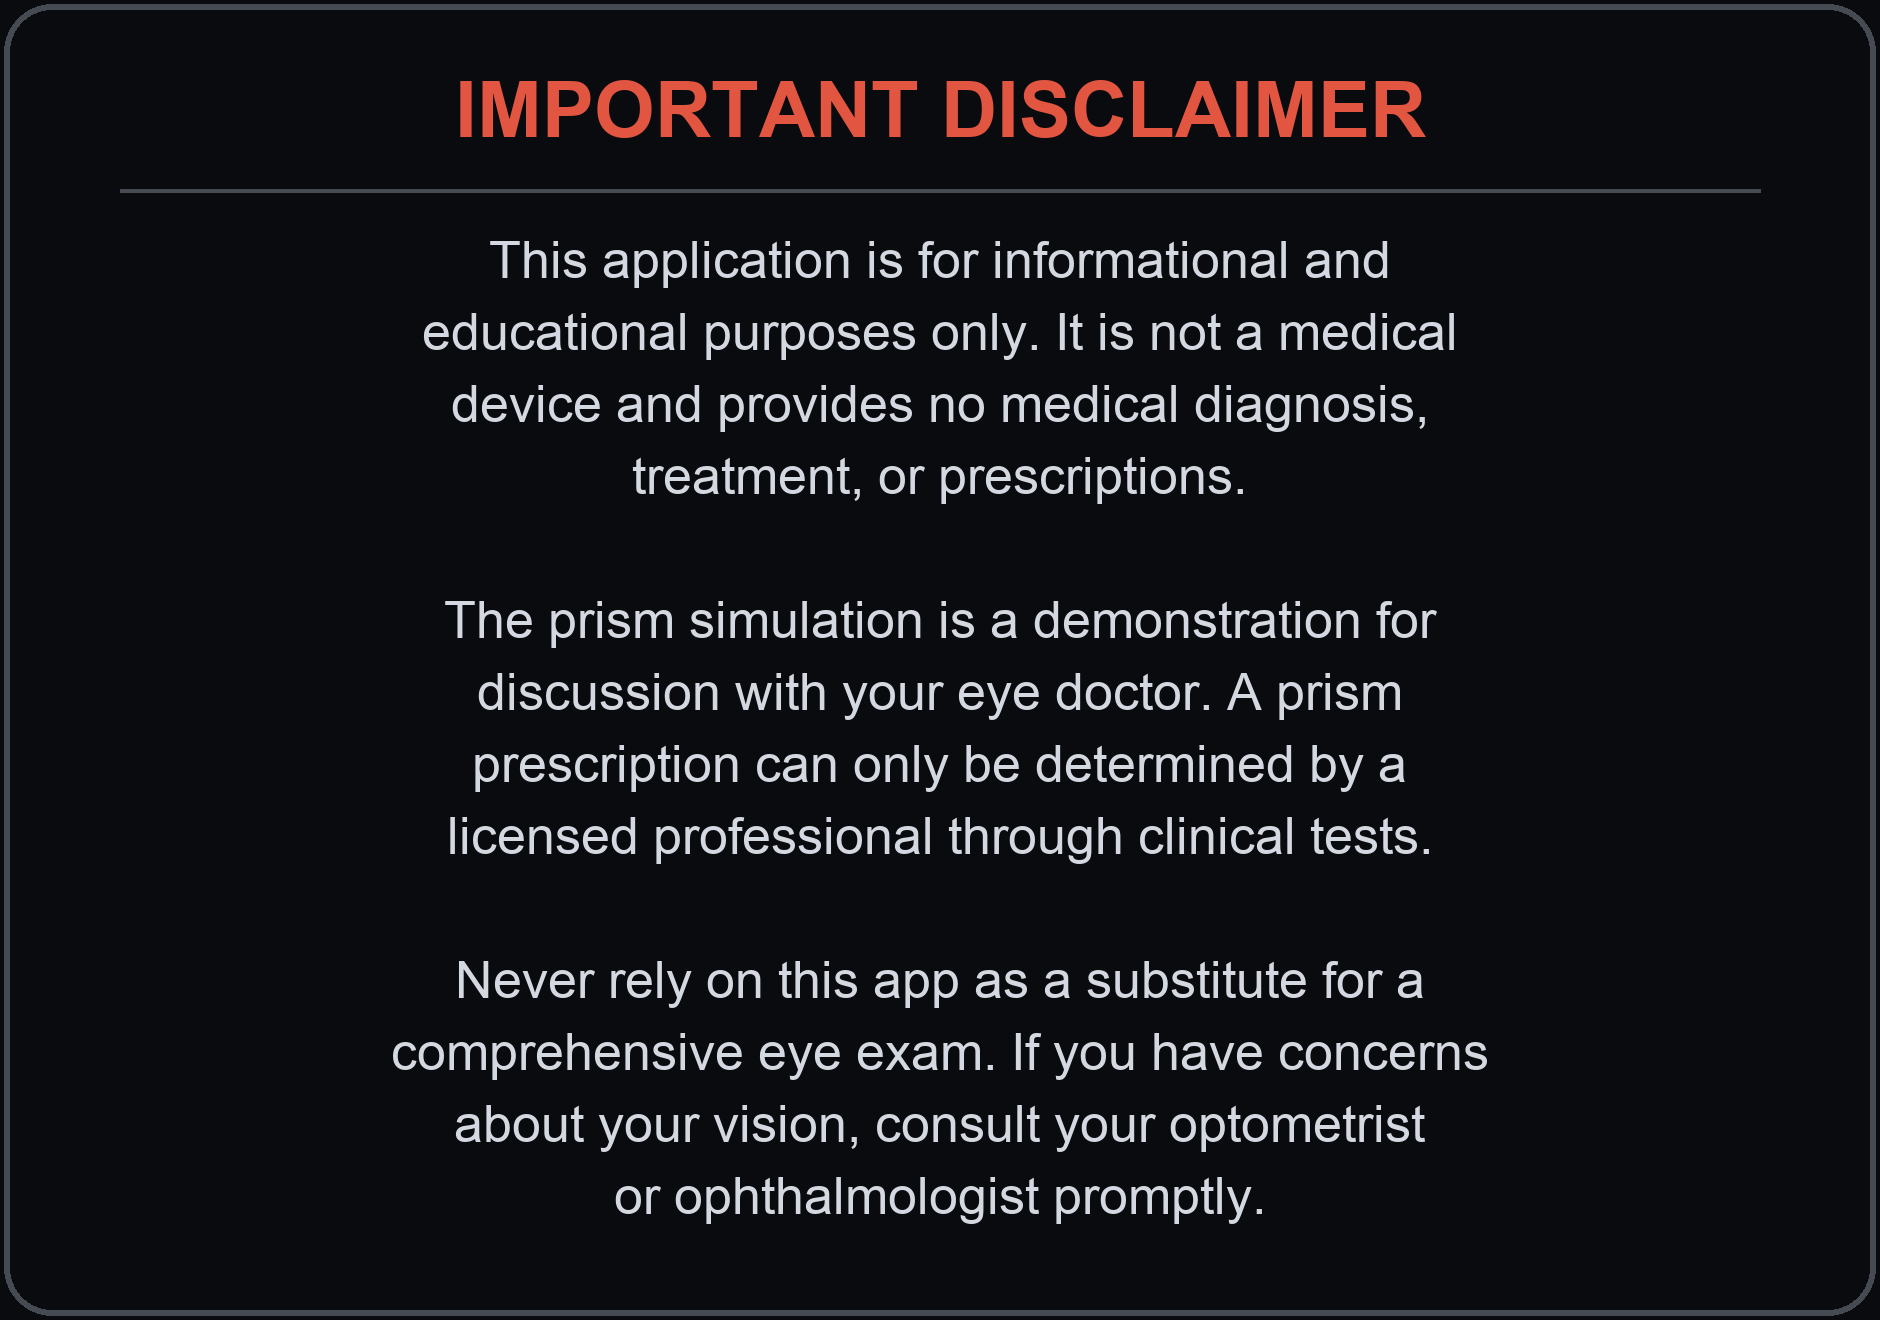
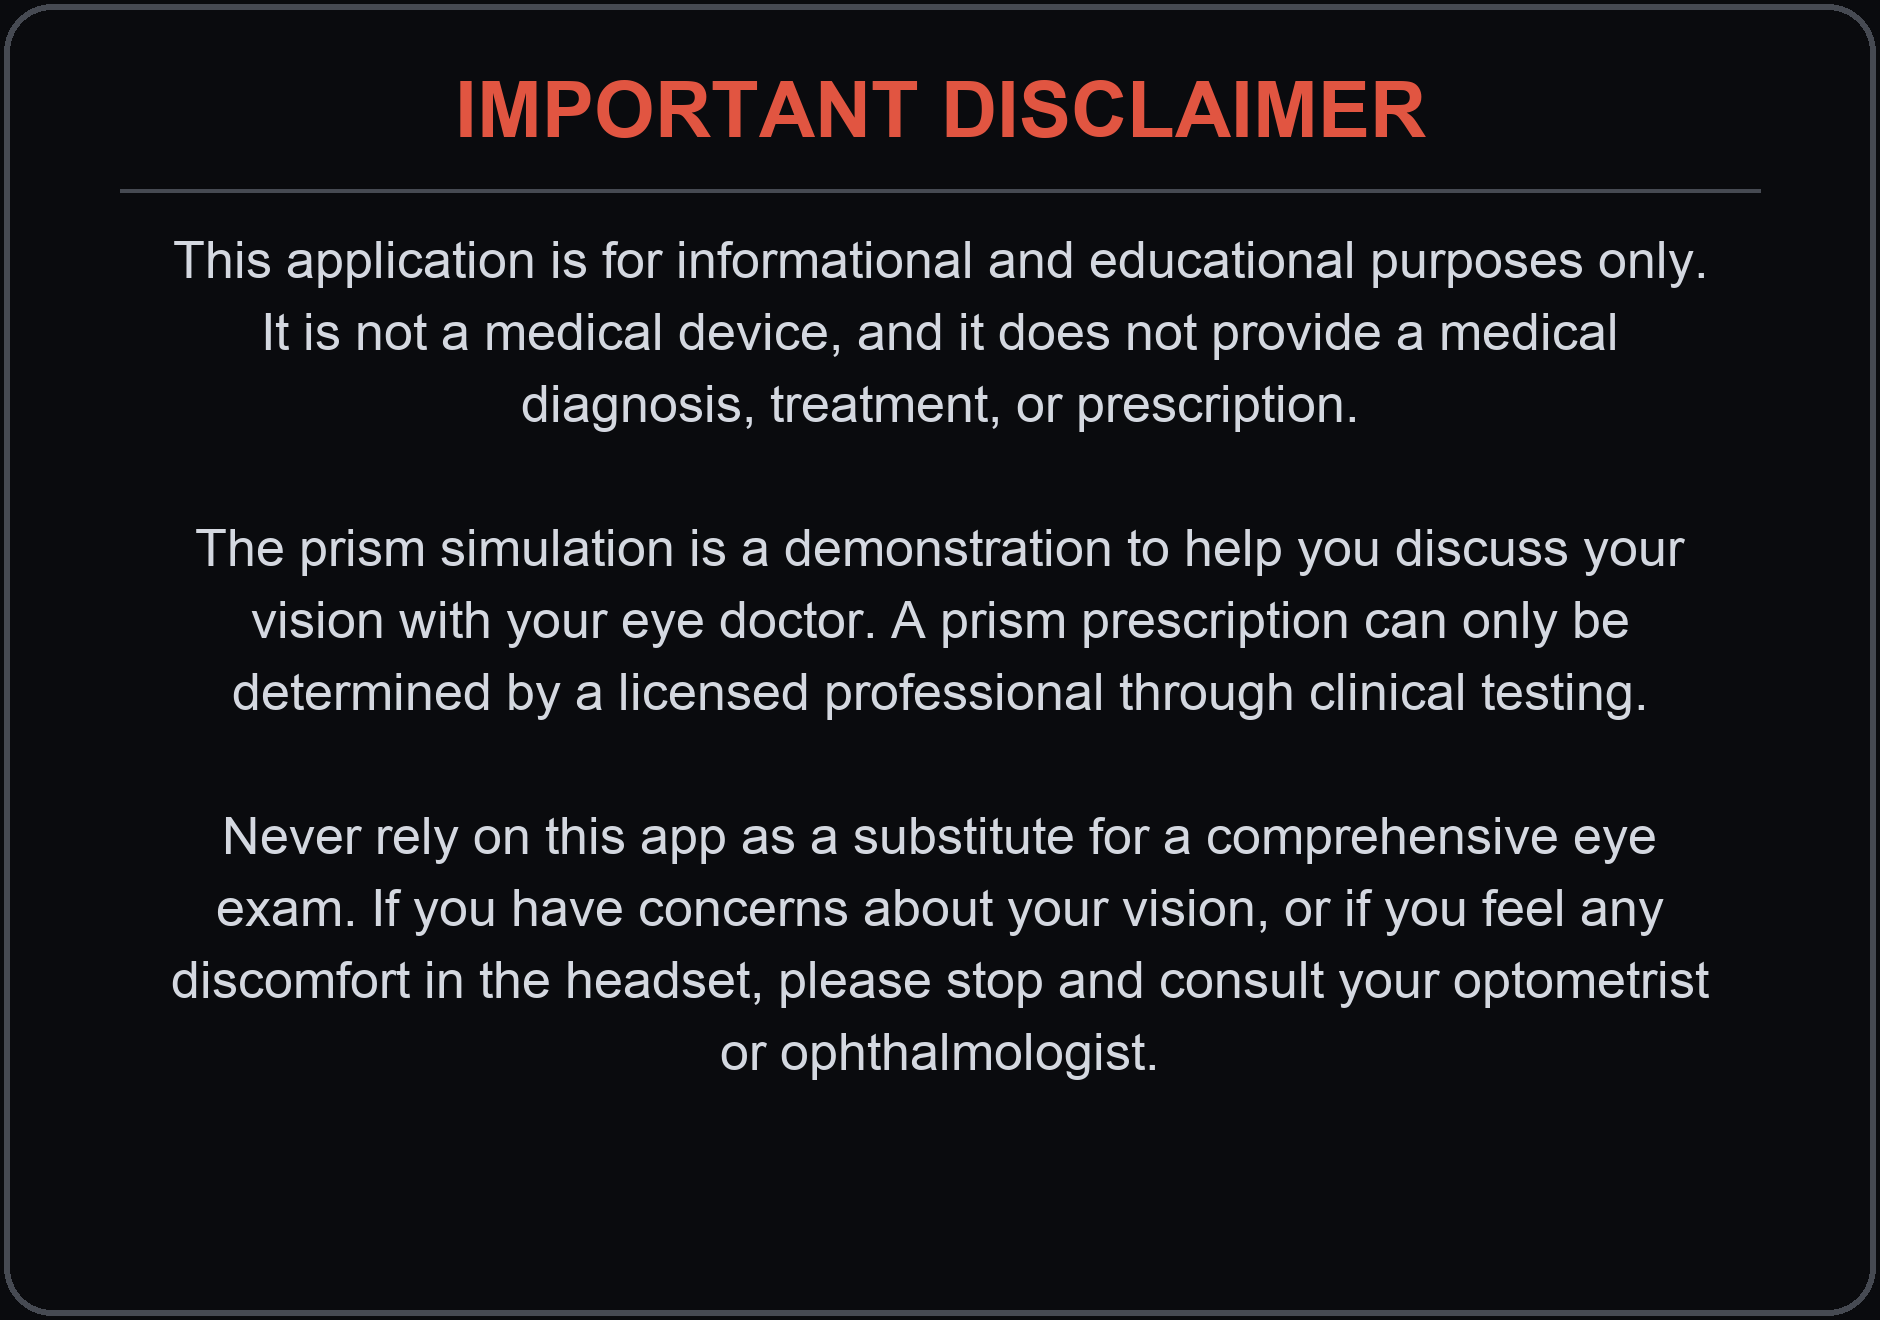
parity: unified disclaimer text + prism starts off (mirrors openxr-skybox@98dad7b)
Sync disclaimer.txt (single source of truth), regenerated audio, and
generate_skybox.py; app.js prism now starts off (PRISM_STEPS[2] == 0).

diff --git a/app.js b/app.js
@@ -215,8 +215,8 @@ let cubeVao, quadVao, beamVao, targetVao, crossVao, panelVao;
 let texBright, texDim, texLabels, texDisclaimer;
 
 let lightsOn = true;
-let prismStep = 0; // start at the full prescription
-let prismScale = PRISM_STEPS[0];
+let prismStep = 2; // start with the prism off (PRISM_STEPS[2] === 0)
+let prismScale = PRISM_STEPS[2];
 let beamsVisible = false;      // gaze beams + chart targets (red OD, green OS)
 let filtersOn = false;         // red/green Worth 4-dot test filters
 

diff --git a/tools/generate_skybox.py b/tools/generate_skybox.py
@@ -295,6 +295,27 @@ def build_prism_labels():
     print("wrote prism_labels.png")
 
 
+# The disclaimer wording is the single source of truth in
+# tools/disclaimer.txt (paragraphs separated by blank lines). Both this
+# panel and the spoken clip (tools/generate_audio.sh) read that file, so
+# the written and spoken disclaimers stay identical.
+DISCLAIMER_TXT = os.path.join(os.path.dirname(__file__), "disclaimer.txt")
+
+
+def _wrap(d, text, fnt, max_w):
+    lines, cur = [], ""
+    for word in text.split():
+        trial = (cur + " " + word).strip()
+        if cur and d.textlength(trial, font=fnt) > max_w:
+            lines.append(cur)
+            cur = word
+        else:
+            cur = trial
+    if cur:
+        lines.append(cur)
+    return lines
+
+
 # Disclaimer panel: shown by the app over the digital acuity display
 # (CHART_BOX) while the welcome/introduction narration plays. 2x the
 # CHART_BOX pixel size (940x660) so text stays crisp up close.
@@ -307,25 +328,18 @@ def build_disclaimer():
     d.text((W // 2, 110), "IMPORTANT DISCLAIMER", font=font(78),
            fill=(225, 85, 65), anchor="mm")
     d.line([120, 190, W - 120, 190], fill=(70, 74, 82), width=4)
-    body = [
-        "This application is for informational and",
-        "educational purposes only. It is not a medical",
-        "device and provides no medical diagnosis,",
-        "treatment, or prescriptions.",
-        "",
-        "The prism simulation is a demonstration for",
-        "discussion with your eye doctor. A prism",
-        "prescription can only be determined by a",
-        "licensed professional through clinical tests.",
-        "",
-        "Never rely on this app as a substitute for a",
-        "comprehensive eye exam. If you have concerns",
-        "about your vision, consult your optometrist",
-        "or ophthalmologist promptly.",
-    ]
+
     f = font(52, bold=False)
+    with open(DISCLAIMER_TXT, encoding="utf-8") as fh:
+        paragraphs = [p.strip() for p in fh.read().split("\n\n") if p.strip()]
+    lines = []
+    for i, para in enumerate(paragraphs):
+        if i:
+            lines.append("")  # blank line between paragraphs
+        lines += _wrap(d, para, f, W - 320)
+
     y = 260
-    for line in body:
+    for line in lines:
         d.text((W // 2, y), line, font=f, fill=(212, 216, 224), anchor="mm")
         y += 72
     img.save(os.path.join(ASSETS, "disclaimer.png"), optimize=True)